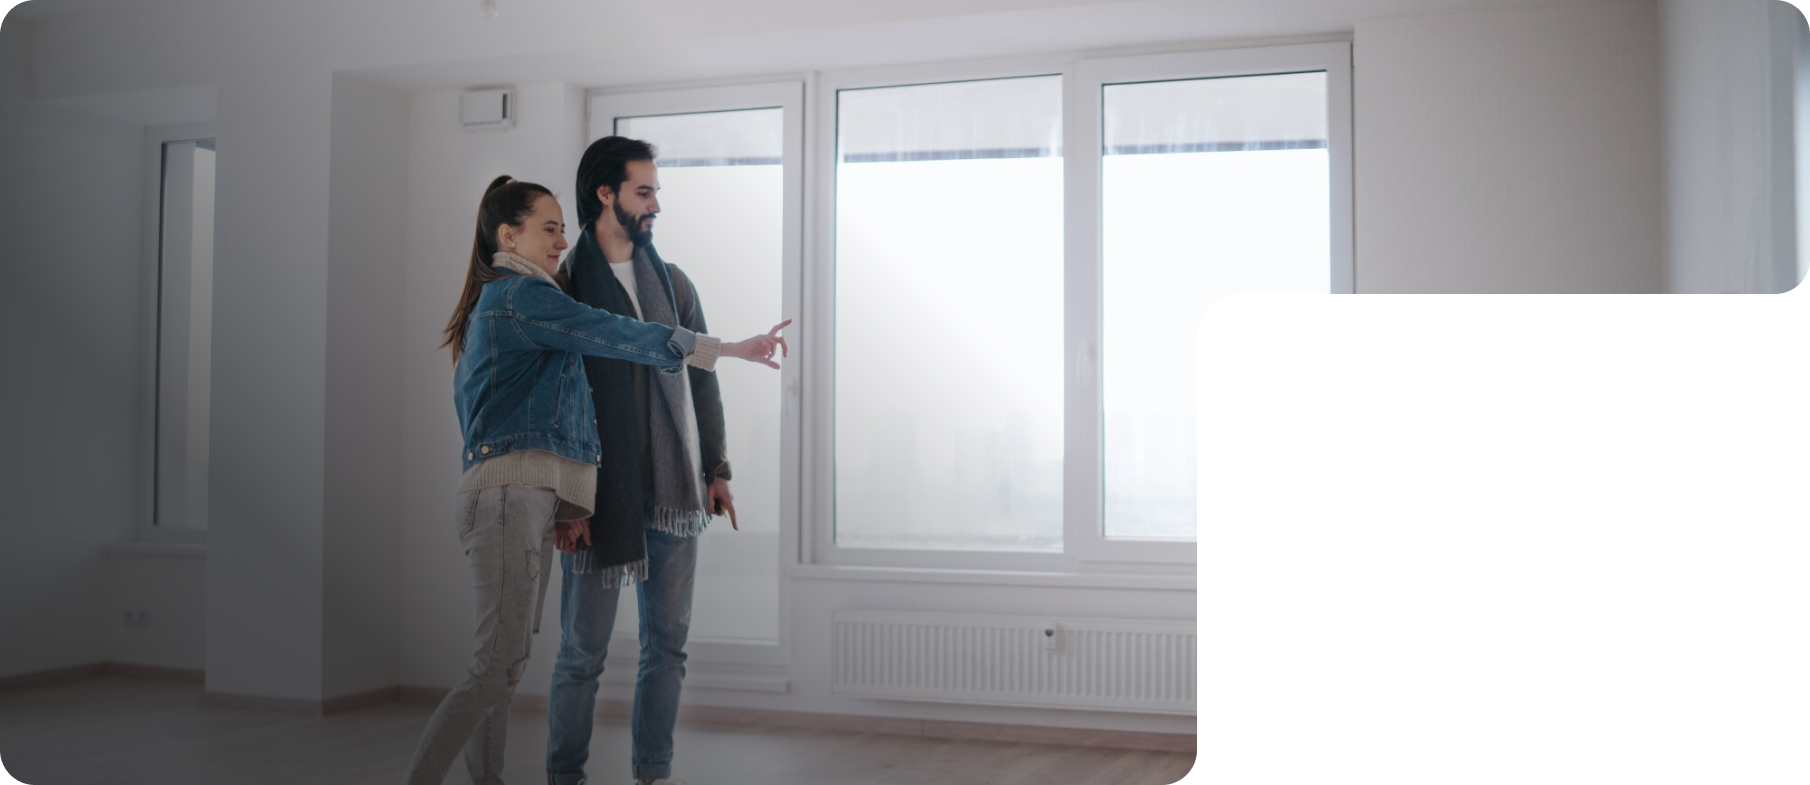
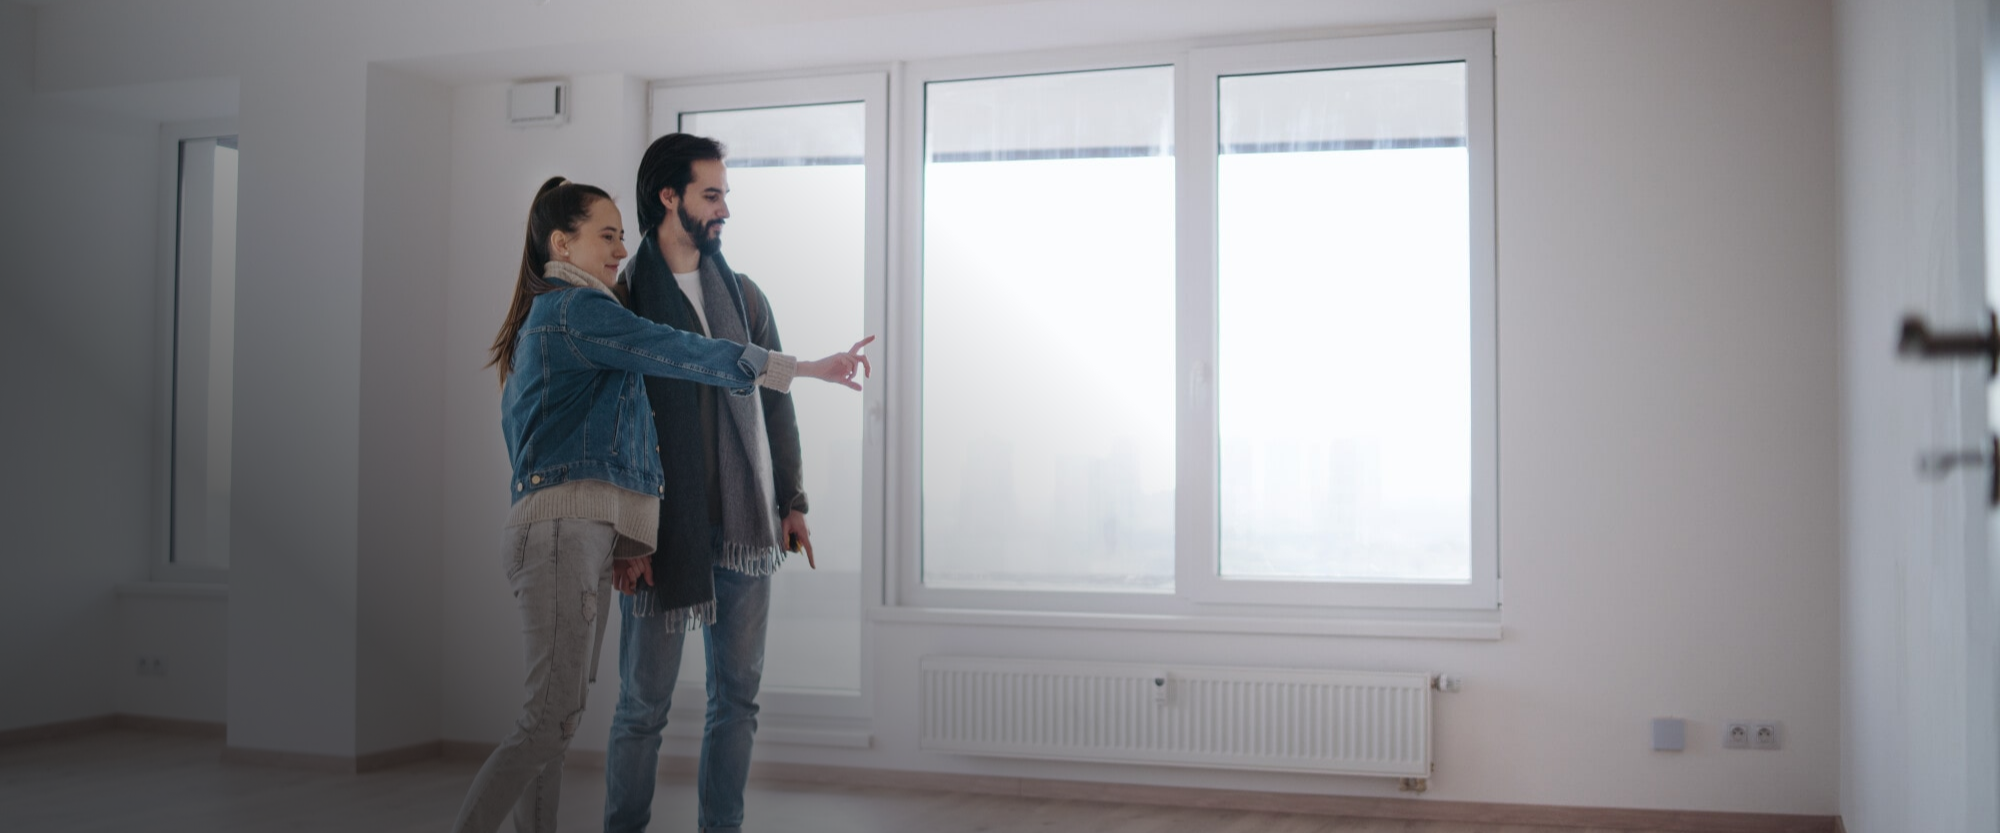
chore: remove title-boxing from global.css and fix realtors/block_1.vue

diff --git a/frontend/components/partnership/realtors/block_1.vue b/frontend/components/partnership/realtors/block_1.vue
@@ -1,53 +1,43 @@
 <script setup lang="ts">
 import { useViewport } from '~/composables/viewport'
-import { hrefCabinet } from 'assets/variables'
-import Bread_crumbs from '~/components/_shared/bread_crumbs.vue'
+import { hrefCalculater } from '~/assets/variables'
 
 const { width } = useViewport()
 </script>
 
 <template>
-  <div class="margin-glob block">
-    <div class="upper">
-      <img src="/images/realtors/block_1.png" alt="background" />
-      <div class="crumb-container">
-        <Bread_crumbs />
-      </div>
-      <div class="content">
-        <h1 class="title-glob header">
-          Приводите клиентов на
-          <br />
-          ремонт с фикс ценой и
-          <br />
-          зарабатывайте от 1 000 руб/м²
-          <br />
-          с каждой сделки
-        </h1>
-      </div>
-      <div class="box-wrapper">
-        <div class="black-box">
-          <h3>
-            Обеспечим ваших клиентов сервисом и услугой высшего уровня без рисков для репутации
-          </h3>
+  <WBlock class="relative">
+    <div class="radius-glob relative mb-10 overflow-hidden lg:mb-0">
+      <SharedBreadCrumbs class="top-10 z-10 hidden lg:absolute lg:block" />
+      <img
+        class="radius-glob max-h-[700px] w-full object-cover"
+        src="/images/realtors/block_1.png"
+        alt="background"
+      />
+      <h1 class="title-boxing">
+        Приводите клиентов на ремонт с фикс ценой и зарабатывайте от <br />
+        1 000 руб/м² с каждой сделки
+      </h1>
+    </div>
 
-          <NuxtLink class="orange link"> Подробнее </NuxtLink>
-
-          <NuxtLink :to="hrefCabinet">
-            <SharedButton class="mt-10" fillOrange> Зарегистрироваться как партнер </SharedButton>
-          </NuxtLink>
-        </div>
+    <div
+      class="black-box-wrap bottom-0 right-0 block w-full pl-0 pt-0 lg:absolute lg:w-[initial] lg:pl-8 lg:pt-8"
+    >
+      <div class="black-box w-full">
+        <h3 class="bb-title">
+          Обеспечим ваших клиентов сервисом и услугой высшего уровня без рисков для репутации
+        </h3>
+        <NuxtLink class="orange cursor-pointer underline"> Подробнее </NuxtLink>
+        <UButton class="mt-4" :to="hrefCalculater" size="custom" block
+          >Зарегистрироваться как партнер</UButton
+        >
       </div>
     </div>
-  </div>
+  </WBlock>
 </template>
 
 <style scoped lang="postcss">
 $radius: 35px;
-.upper {
-  position: relative;
-  background-color: #ffffff;
-}
-
 .content {
   position: absolute;
   bottom: 0;
@@ -55,42 +45,74 @@ $radius: 35px;
   left: 100px;
 }
 
-.header {
-  font-size: 50px;
-  font-weight: 600;
-  color: white;
-  line-height: 70px;
-  letter-spacing: 0.1px;
-  @media (max-width: 1500px) {
-    font-size: 40px;
-  }
-}
-
-.box-wrapper {
-  position: absolute;
-  bottom: 0;
-  right: 0;
-  background-color: white;
-  padding-left: 20px;
-  padding-top: 20px;
-  border-radius: 20px 0 0;
+.black-box-wrap {
+  background-color: var(--c-white);
+  border-radius: $radius 0 0;
 
   &::before,
   &::after {
     content: '';
     position: absolute;
-    width: 40px;
-    height: 40px;
+    width: 70px;
+    height: 70px;
     border-radius: 50%;
-    box-shadow: 15px 15px white;
+    box-shadow: 35px 35px var(--c-white);
+
+    @media (max-width: 1024px) {
+      display: none;
+    }
   }
   &::before {
     bottom: 0;
-    left: -40px;
+    left: -70px;
   }
   &::after {
     right: 0;
-    top: -40px;
+    top: -70px;
+  }
+}
+
+.title-boxing {
+  font-size: 45px;
+  font-weight: bold;
+  line-height: 60px;
+  color: white;
+  position: absolute;
+  bottom: 5rem;
+  left: 5rem;
+  width: 35%;
+
+  @media (max-width: 1500px) {
+    font-size: 40px;
+    line-height: 50px;
+    bottom: 4rem;
+    left: 4rem;
+  }
+
+  @media (max-width: 1400px) {
+    font-size: 35px;
+    line-height: 45px;
+    bottom: 3rem;
+    left: 3rem;
+  }
+
+  @media (max-width: 1200px) {
+    font-size: 30px;
+    line-height: 40px;
+    bottom: 2rem;
+    left: 2rem;
+  }
+
+  @media (max-width: 600px) {
+    font-size: 20px;
+    line-height: 30px;
+  }
+
+  @media (max-width: 450px) {
+    font-size: 16px;
+    line-height: 25px;
+    bottom: 1rem;
+    left: 1rem;
   }
 }
 
@@ -98,32 +120,38 @@ $radius: 35px;
   background-color: #161616;
   padding: 50px;
   border-radius: $radius;
-  color: white;
+  color: var(--c-white);
   width: 35em;
+  @media (max-width: 1024px) {
+    width: initial;
+  }
+  @media (max-width: 600px) {
+    padding: 35px;
+  }
+  @media (max-width: 450px) {
+    padding: 30px;
+  }
 
-  h3 {
-    width: 85%;
-    font-size: 25px;
-    font-weight: 500;
-    line-height: 40px;
-    margin-bottom: 55px;
-    @media (max-width: 1500px) {
-      font-size: 30px;
+  .bb-title {
+    font-size: 30px;
+    margin-bottom: 1rem;
+    font-weight: bold;
+    color: white;
+    width: 75%;
+
+    @media (max-width: 1200px) {
+      font-size: 24px;
+      margin-bottom: 1.5rem;
+      width: 80%;
+    }
+
+    @media (max-width: 1030px) {
+      width: 100%;
+    }
+
+    @media (max-width: 600px) {
+      font-size: 16px;
     }
   }
-
-  .link {
-    text-decoration: underline;
-    font-weight: bold;
-  }
-}
-
-.crumb-container {
-  position: absolute;
-  display: inline-block;
-  top: 0;
-  left: 0;
-  padding: 20px;
-  z-index: 1;
 }
 </style>

diff --git a/frontend/components/apartment-renovation/block_1.vue b/frontend/components/apartment-renovation/block_1.vue
@@ -74,6 +74,49 @@ $radius: 35px;
   }
 }
 
+.title-boxing {
+  font-size: 45px;
+  font-weight: bold;
+  line-height: 60px;
+  color: white;
+  position: absolute;
+  bottom: 5rem;
+  left: 5rem;
+
+  @media (max-width: 1500px) {
+    font-size: 40px;
+    line-height: 50px;
+    bottom: 4rem;
+    left: 4rem;
+  }
+
+  @media (max-width: 1400px) {
+    font-size: 35px;
+    line-height: 45px;
+    bottom: 4rem;
+    left: 4rem;
+  }
+
+  @media (max-width: 1150px) {
+    font-size: 30px;
+    line-height: 40px;
+    bottom: 2rem;
+    left: 2rem;
+  }
+
+  @media (max-width: 600px) {
+    font-size: 20px;
+    line-height: 30px;
+  }
+
+  @media (max-width: 450px) {
+    font-size: 16px;
+    line-height: 25px;
+    bottom: 1rem;
+    left: 1rem;
+  }
+}
+
 .black-box {
   background-color: #161616;
   padding: 50px;

diff --git a/frontend/components/building-houses/block_1.vue b/frontend/components/building-houses/block_1.vue
@@ -74,6 +74,49 @@ $radius: 35px;
   }
 }
 
+.title-boxing {
+  font-size: 45px;
+  font-weight: bold;
+  line-height: 60px;
+  color: white;
+  position: absolute;
+  bottom: 5rem;
+  left: 5rem;
+
+  @media (max-width: 1500px) {
+    font-size: 40px;
+    line-height: 50px;
+    bottom: 4rem;
+    left: 4rem;
+  }
+
+  @media (max-width: 1400px) {
+    font-size: 35px;
+    line-height: 45px;
+    bottom: 4rem;
+    left: 4rem;
+  }
+
+  @media (max-width: 1150px) {
+    font-size: 30px;
+    line-height: 40px;
+    bottom: 2rem;
+    left: 2rem;
+  }
+
+  @media (max-width: 600px) {
+    font-size: 20px;
+    line-height: 30px;
+  }
+
+  @media (max-width: 450px) {
+    font-size: 16px;
+    line-height: 25px;
+    bottom: 1rem;
+    left: 1rem;
+  }
+}
+
 .black-box {
   background-color: #161616;
   padding: 50px;

diff --git a/frontend/assets/css/global.css b/frontend/assets/css/global.css
@@ -120,46 +120,3 @@ a {
   line-height: 24px;
   margin-top: 2em;
 }
-
-.title-boxing {
-  font-size: 45px;
-  font-weight: bold;
-  line-height: 60px;
-  color: white;
-  position: absolute;
-  bottom: 5rem;
-  left: 5rem;
-
-  @media (max-width: 1500px) {
-    font-size: 40px;
-    line-height: 50px;
-    bottom: 4rem;
-    left: 4rem;
-  }
-
-  @media (max-width: 1300px) {
-    font-size: 35px;
-    line-height: 45px;
-    bottom: 4rem;
-    left: 4rem;
-  }
-
-  @media (max-width: 1150px) {
-    font-size: 30px;
-    line-height: 40px;
-    bottom: 2rem;
-    left: 2rem;
-  }
-
-  @media (max-width: 600px) {
-    font-size: 20px;
-    line-height: 30px;
-  }
-
-  @media (max-width: 450px) {
-    font-size: 16px;
-    line-height: 25px;
-    bottom: 1rem;
-    left: 1rem;
-  }
-}

diff --git a/frontend/components/_shared/bread_crumbs.vue b/frontend/components/_shared/bread_crumbs.vue
@@ -16,7 +16,9 @@ const labels = {
   'feedback-from-clients': 'Отзывы',
   services: 'Услуги',
   'apartment-renovation': 'Ремонт квартир',
-  'building-houses': 'Строительство Домов'
+  'building-houses': 'Строительство Домов',
+  partnership: 'Партнёрская программа',
+  realtors: 'Риелторам'
 }
 /////////////////////////////////////////
 
